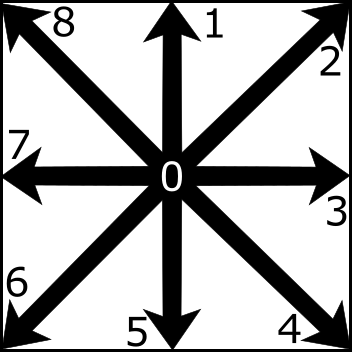
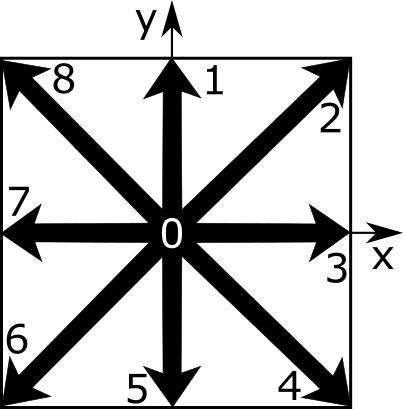
Kapitel 2 sollte nun inhaltlich passen.

diff --git a/Paper/paper.tex b/Paper/paper.tex
@@ -51,7 +51,9 @@
 \author
 {Lorenz Hufnagel, Daniel Zint\\
 Chair for System-Simulation, Friedrich Alexander Univerit\"at Erlangen-N\"urnberg\\
-91058 Erlangen, Germany % ist das so richtig?
+Cauerstr. 11, 91058 Erlangen, Germany\\
+lorenz.hufnagel@studium.uni-erlangen.de\\
+daniel.zint@fau.de % ist das so richtig?
 }
 
 \begin{document}
@@ -113,7 +115,9 @@ For the interface $\Gamma$ we have the influence of the surface tension and we a
 	[u] = 0 \text{,  } [T]n = 2 \sigma \kappa n \text{.}
 	\label{jumpconditions}
 \end{equation}
-Here, T is the stress tensor, $\sigma$ the surface tension, and $\kappa$ the curvature of the interface with respect to its normal $n$. Brackets denote the jump of a quantity at the interface: $[q](x) = \lim_{\epsilon \rightarrow 0} (q(x + \epsilon n) - (q(x - \epsilon n)) \text{ with } x \in \Gamma$.
+Here, T is the stress tensor, $\sigma$ the surface tension, and $\kappa$ the curvature of the interface with respect to its normal $n$. Brackets denote the jump of a quantity at the interface: 
+$[q](x) = \lim_{\epsilon \rightarrow 0} (q(x - \epsilon n) - (q(x + \epsilon n)) \text{ with } x \in \Gamma$ % I also turned this around, according to [p].
+. In Fig. \ref{intro_phases} this would be the jump from $\Omega_1$ to $\Omega_2$. For the other direction the sign changes.
 
 There are different approaches to solve the immiscible two-phase problem. The most spread among these approaches is the colour gradient method of Gunstensen and Rothman \cite{GRcg1,GRcg2,GRcg3}. The downside of this method is that it is only applicable for small density and viscosity differences. Another approach is the concept of {\it interaction potentials} by Shan and Chen \cite{ShanChen1,ShanChen2}. This method actually models miscible fluids and can only approximately describe the behavior of immiscible fluids. Furthermore there are free surface methods which only take one fluid in account for computation (\cite{Koerner}). They work best for big density and viscosity differences.
 
@@ -125,9 +129,9 @@ This paper is organized as follows: Section 2 gives an introduction to the numer
 The algorithm uses two numerical methods. Before we show how these can be coupled, we will shortly introduce the numerical methods independently.
 
 \subsection{The Lattice Boltzmann Method}
-To solve the incompressible Navier-Stokes equations, we use the lattice Boltzmann method. This method describes the evolution of the particle density $f(x,v,t)$ in phase space, with a $(x,v)$ as the phase space variables and $t$ as time. The LBM algorithm discretizes with a regular grid in space and with restricted number of velocities adapted to this grid \cite{LBM1,LBM2,LBM3,LBM4}. We use the D2Q9 model in 2D, which has 9 velocity vectors on a plane grid with unit spacing including one zero velocity (Fig. \ref{lbmc_i}). 
+To solve the incompressible Navier-Stokes equations, we use the lattice Boltzmann method. This method describes the evolution of the particle density $f(\vec{x},\vec{v},t)$ in phase space, with a $(\vec{x},\vec{v})$ as the phase space variables and $t$ as time. The LBM algorithm discretizes with a regular grid in space and with restricted number of velocities adapted to this grid \cite{LBM1,LBM2,LBM3,LBM4}. We use the D2Q9 model in 2D, which has 9 velocity vectors on a plane grid with unit spacing including one zero velocity (Fig. \ref{lbmc_i}). 
 \begin{figure}
-	\hfill\includegraphics[width=6cm,natwidth=352,natheight=352]{LBMc_i.png}\hspace*{\fill}
+	\hfill\includegraphics[width=6cm,natwidth=403,natheight=409]{LBMc_i.png}\hspace*{\fill}
 	\caption{The vectors of one cell in LBM}
 	\label{lbmc_i}
 \end{figure}
@@ -140,18 +144,18 @@ The vectors are given by the columns of the matrix
 	\end{bmatrix}
 	\text{.}
 \end{equation}
-The corresponding particle distributions are denoted by $f_i(x,t) = f(x,c_i,t)$. We can get the density and velocity from the particle distribution functions by calculating:
+The corresponding particle distributions are denoted by $f_i(\vec{x},t) = f(\vec{x},\vec{c_i},t)$. We get the density and velocity from the particle distribution functions with:
 \begin{equation}
-	\rho(x,t) = \sum_{i=0}^{8} f_i(x,t) \text{, } 
-	u = \sum_{i=0}^{8} f_i(x,t)c_i \text{.}
+	\rho(\vec{x},t) = \sum_{i=0}^{8} f_i(\vec{x},t) \text{, } 
+	\vec{u} = \sum_{i=0}^{8} f_i(\vec{x},t)\vec{c_i} \text{.}
 \end{equation}
 For the collision step we use the Bhatnagar-Gross-Krook (BGK) approximation \cite{BGK}
 \begin{equation}
-	f_i(x+c_i,t+1) = f_i(x,t) - \frac1\tau(f_i-f_i^{eq}) + G_i \text{.}
+	f_i(\vec{x}+\vec{c_i},t+1) = f_i(\vec{x},t) - \frac1\tau(f_i-f_i^{eq}) + G_i \text{.}
 \end{equation}
-The parameter $\tau$ is the relaxation parameter for the BGK collision operator and controls the kinematic viscosity $\nu = \frac16(2\tau - 1)$. Furthermore, we use the equilibrium distribution
+The parameter $\tau$ is the relaxation parameter for the BGK collision operator and controls the kinematic viscosity $\nu = \frac16(2\tau - 1)$. $G_i$ is an additional force like gravity or a magnetic field. In our case we set $G_i = 0$. Furthermore, we use the equilibrium distribution
 \begin{equation}
-	f_i^{eq}(f) = f_i^*(\rho + 3c_i \cdot u + \frac92(c_i \cdot u)^2 - \frac32u^2)
+	f_i^{eq}(\rho,\vec{u}) = f_i^*(\rho + 3\vec{c_i} \cdot \vec{u} + \frac92(\vec{c_i} \cdot \vec{u})^2 - \frac32{|\vec{u}|}^2)
 \end{equation}
 with the corresponding D2Q9 weight factors
 $$
@@ -161,8 +165,8 @@ $$
 The LBM algorithm consists out of the following steps:
 \begin{itemize}
 	\item[1. ] Collision step: $f_i^+ = f_i - \frac1\tau(f_i - f_i ^{eq}) + G_i$
-	\item[2. ] Propagation step: $f_i(x+c_i,t+1) = f_i^+(x,t)$, for interior nodes
-	\item[3. ] Boundary conditions: $f_i(x+c_i,t+1) = f_i(x+c_i,t)$, if $x \notin \Omega$
+	\item[2. ] Propagation step: $f_i(\vec{x}+\vec{c_i},t+1) = f_i^+(x,t)$, for interior nodes
+	\item[3. ] Boundary conditions: $f_i(\vec{x}+\vec{c_i},t+1) = f_i(\vec{x}+\vec{c_i},t)$, if $\vec{x} \notin \Omega$
 \end{itemize}
 
 \subsection{The Level Set Method}
@@ -174,11 +178,17 @@ Let $\Gamma_t$ be our interface at time t. Within the level set method, $\Gamma_
 \end{equation}
 with the velocity $v = v(x(t)) = \dot x(t)$ for $x(t) \in \Gamma_t$.
 
-To solve this equation we use the Toolbox of Ian Mitchell \cite{mitchell}. This toolbox takes as input the velocity field we get from the lattice Boltzmann method and computes the movement of the interface. The toolbox also provides functions to calculate the normal and the curvature of the surface. We will need this informations for the coupling of the methods.
+To solve this equation we use the Toolbox of Ian Mitchell \cite{mitchell} for Matlab. This toolbox takes as input the velocity field we get from the lattice Boltzmann method and computes the movement of the interface. The toolbox also provides functions to calculate the normal and the curvature of the surface. We will need this informations for the coupling of the methods.
 
 \subsection{Coupling of LBM and level set method}
-The lattice Boltzmann method requires a boundary treatment at the interface which implements the jump conditions (\ref{jumpconditions}). We use a new boundary condition that is based on a simple bounce back type Dirichlet condition. For example, in Fig. \ref{intro_phases} for a point $x_2 \in \Omega_2$ that is next to the boundary we set
-% TODO: zweites Bild einfügen mit x_1, x_2 und c_i
+The lattice Boltzmann method requires a boundary treatment at the interface which implements the jump conditions (\ref{jumpconditions}). For sake of simplicity, we don't write arrows for every vector, i.e. $\vec{u} \rightarrow u$. One should consider that every position, direction, and velocity is two-dimensional. 
+
+For the coupling, we create a new boundary condition that is based on a simple bounce back type Dirichlet condition. For example, in Fig. \ref{coupling} for a point $x_2 \in \Omega_2$ that is next to the boundary we set
+\begin{figure}
+	\hfill\includegraphics[width=10cm,natwidth=437,natheight=178]{coupling.png}\hspace*{\fill}
+	\caption{link between two points in different fluids}
+	\label{coupling}
+\end{figure}
 \begin{equation}
 	f_i(x_2,t+1) = f_{i*}^+(x_2,t) + 6hf_i^*c_i \cdot \tilde{u} + R_i \text{.}
 \end{equation}
@@ -196,35 +206,39 @@ We can rewrite the formula in the form
 \end{equation}
 with
 \begin{equation}
-	S_k = -\frac{3}{2\tau h^2} \sum_i c_i \otimes c_i(f_i-f_i^{eq})(t,x_k) \text{,}
+\Lambda_i = c_i \otimes c_i - \frac13 {|c_i|}^2 \mathbf{I} \text{,}
 \end{equation}
 \begin{equation}
-	\Lambda_i:[S] = ([S]:n \otimes n)((n \cdot c_i)^2 - {|c_i|}^2/3) + 2([S]:n \otimes t_k)(n \cdot c_i)(t_k \cdot c_i) \text{.}
+	S_k = -\frac{3}{2\tau h^2} \sum_i c_i \otimes c_i(f_i-f_i^{eq})(t,x_k) \text{.}
 \end{equation}
-For the calculation we use
+The tensor product is $a \otimes b = ab^T$ and the double contraction $A:B = \mathrm{trace}(AB^T)$. Furthermore, we have
+\begin{equation}
+	\Lambda_i:[S] = ([S]:n \otimes n)((n \cdot c_i)^2 - {|c_i|}^2/3) + 2([S]:n \otimes t_k)(n \cdot c_i)(t_k \cdot c_i) \text{,}
+\end{equation}
+with the terms
 \begin{equation}
 	[S]:n \otimes n =  \frac{1}{2 \bar\mu} ([p] + 2 \sigma \kappa) - \frac{[\mu]}{\bar{\mu}} \bar{S} : n \otimes n \text{,}
 \end{equation}
 \begin{equation}
 	[S]:n \otimes t_k = - \frac{[\mu]}{\bar{\mu}} \bar{S} : n \otimes t_k \text{.}
 \end{equation}
-Here $n$ is the normal of the interface, $t$ the tangential, $\kappa$ the curvature, and $\mu$ the dynamic viscosity.
+Here $n$ is the normal of the interface, $t$ the tangential, $\bar{S} = (S_1 + S_2)/2$ the averaged symmetric velocity gradient, $\kappa$ the curvature, and $\mu$ the dynamic viscosity, with $[\mu] = \mu_2 - \mu_1$ as its jump.
 The pressure jump is formulated by
 \begin{equation}
-	[p] \approx \frac{1}{3 h^2} (\rho(x_1,t)\varrho_1 - \rho(x_2,t)\varrho_2) \text{.}
+	[p] \approx \frac{1}{3 h^2} (\rho(x_2,t)\varrho_2 - \rho(x_1,t)\varrho_1) \text{.}
 \end{equation}
-We use now the information of the level set method for the new boundary condition. What is still missing, is a refill method. Due to the fact that the interface moves, some cells change their fluid type. We use an equilibrium/non-equilibrium refill as it is described in \cite{Caiazzo} that consists out of four steps:
+What is still missing, is a refill method. Due to the fact that the interface moves, some cells change their fluid type. We use an equilibrium/non-equilibrium refill as it is described in \cite{Caiazzo} that consists out of four steps:
 \begin{itemize}
 	\item[1] Interpolate density and velocity from interior neighbors
 	\item[2] Compute the corresponding equilibrium
 	\item[3] Copy the non-equilibrium part from a direct interior neighbor
 	\item[4] Reinitialise by adding equilibrium and non-equilibrium parts
 \end{itemize}
-Suppose we choose an inward pointing direction $c_i$ in a boundary point $x = x_b \in \Omega_1$, e.g. the direction of biggest angle with the surface normal. Then the density is interpolated by
+Suppose we choose an inward pointing direction $c_i$ in a boundary point $x \in \Omega_1$, e.g. the direction of biggest angle with the surface normal. Then the density is interpolated by
 \begin{equation}
 	\tilde{\rho} = 3\rho(x+c_i,t+1) - 3\rho(x+2c_i,t+1) + \rho(x+3c_i,t+1) \text{.}
 \end{equation}
-\begin{figure}[h]
+\begin{figure}
 	\hfill\includegraphics[width=8cm,natwidth=445,natheight=305]{refillmethod.png}\hspace*{\fill}
 	\caption{Cells that are used for the refill method}
 	\label{refill}
@@ -233,14 +247,16 @@ Figure \ref{refill} shows the cells we use for the interpolation. In \cite{Thoem
 \begin{equation}
 \tilde{u} = 3u(x+c_i,t+1) - 3u(x+2c_i,t+1) + u(x+3c_i,t+1) \text{.}
 \end{equation}
-We can now calculate the new equilibrium $f_i^{eq}(\tilde{\rho},\tilde{u})$ and add it to the non-equilibrium part that we copy from the direct neighbor, $f_i^{neq}(x+c_i,t+1)$.
-The same procedure has also to be applied in the second fluid $\Omega_2$.
-\begin{figure}[h]
+We can now calculate the new equilibrium $f_i^{eq}(\tilde{\rho},\tilde{u})$ and add it to the non-equilibrium part that we copy from the direct neighbor:
+$$f_i(\vec{x},t+1) = f_i^{eq}(\tilde{\rho},\tilde{u}) + f_i^{neq}(x+c_i,t+1) \text{.}$$
+We have to repeat the procedure for other fluid.
+\begin{figure}
 	\hfill\includegraphics[width=8cm,natwidth=632,natheight=562]{dataexchange.png}\hspace*{\fill}
 	\caption{Data exchange between LBM and level set method}
 	\label{dataexchange}
 \end{figure}
-Finally we couple the two methods in the following way:
+
+Finally, we can couple the two methods in the following way:
 \begin{itemize}
 	\item[1.] Create the initial interface $\Gamma_0$
 	\item[2.] Run the level set code once to create the surface description for LBM
